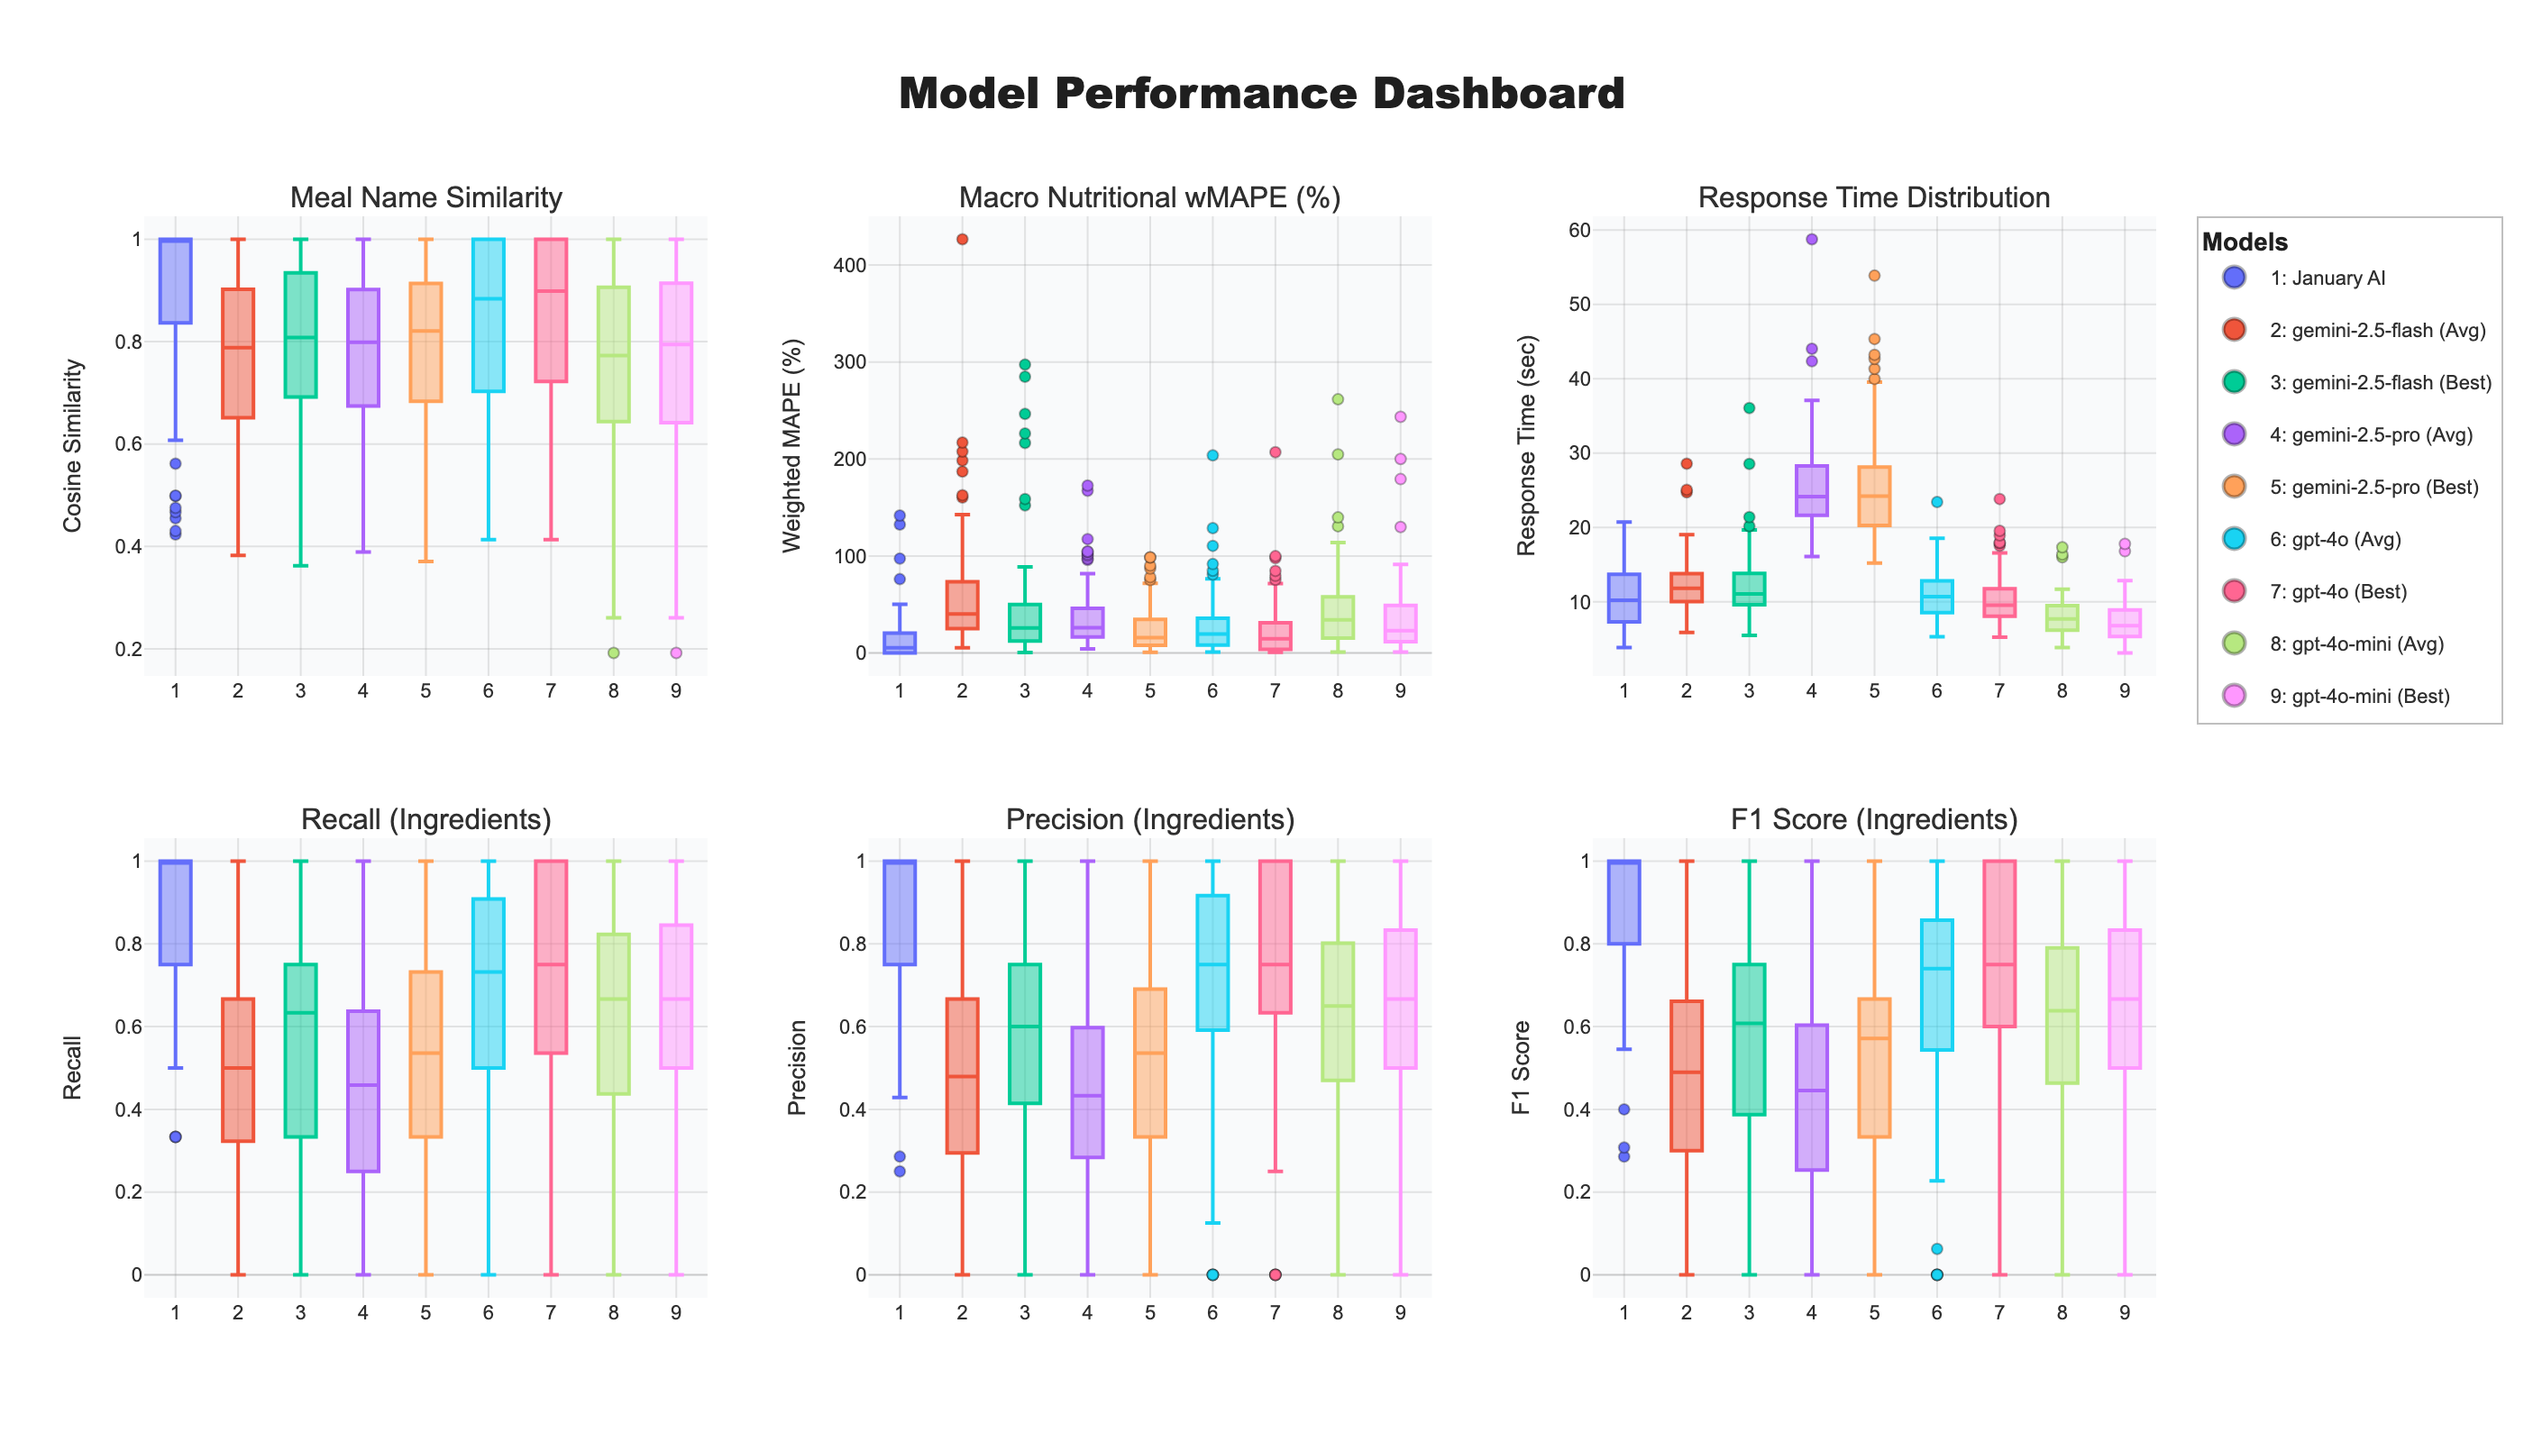
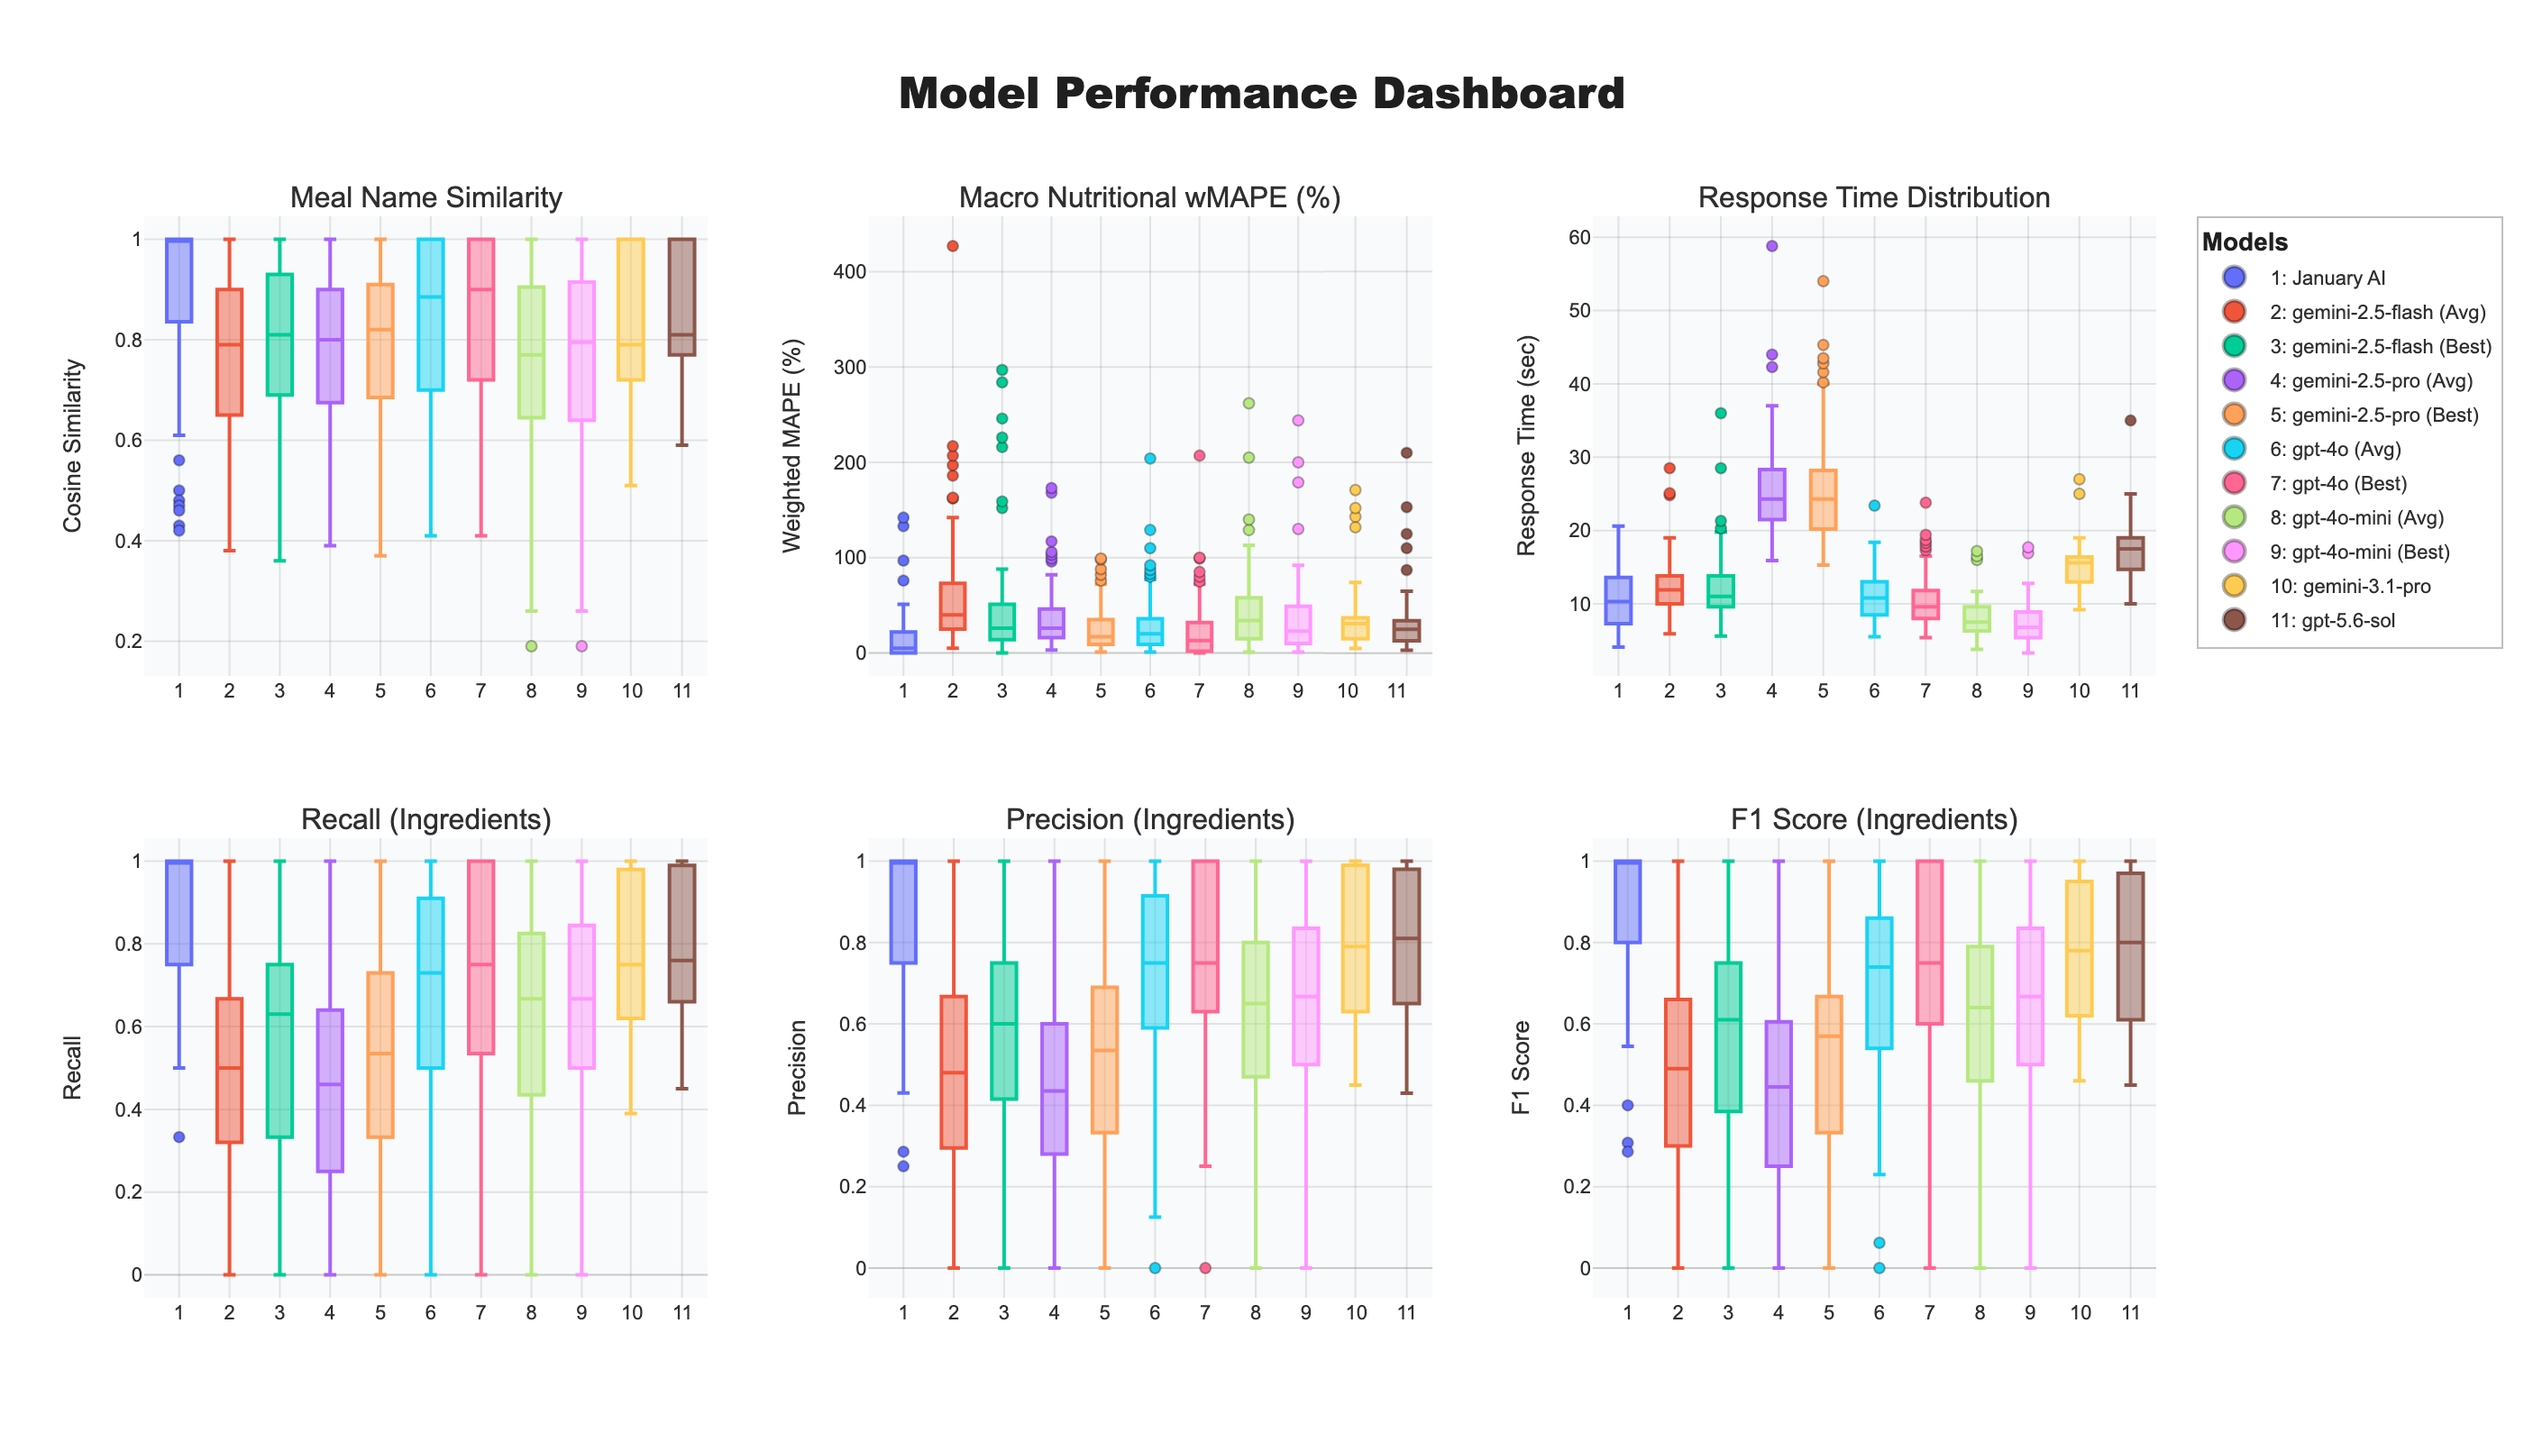
feat: add gpt-5.6-sol and gemini-3.1-pro to the benchmark
- support gpt-5.6-sol and gemini-3.1-pro in the LiteLLM wrapper and CLI
- add their results to the README leaderboard and charts

diff --git a/food_scan_bench/models/llm.py b/food_scan_bench/models/llm.py
@@ -9,6 +9,8 @@ from ..prompts import PROMPT_VARIANTS
 from ..schema import FoodAnalysis
 from ..utils import calculate_cost, img2b64
 
+DEFAULT_TEMPERATURE_ONLY_PREFIXES = ("gpt-5", "o1", "o3", "o4", "gemini/gemini-3")
+
 
 class LiteModel:
     """A robust wrapper around any LiteLLM-supported vision model with prompt engineering options."""
@@ -58,13 +60,16 @@ class LiteModel:
             },
         ]
 
+        sampling_kwargs = {}
+        if not self.model_name.startswith(DEFAULT_TEMPERATURE_ONLY_PREFIXES):
+            sampling_kwargs["temperature"] = 0.0
+
         try:
             resp = await litellm.acompletion(
                 model=self.model_name,
                 messages=messages,
                 response_format=FoodAnalysis,
-                temperature=0.0,
-                **self.kwargs,
+                **{**sampling_kwargs, **self.kwargs},
             )
             raw = ""
             try:

diff --git a/food_scan_bench/utils.py b/food_scan_bench/utils.py
@@ -34,6 +34,16 @@ MODEL_COSTS = {
         "output": 10.00,
         "display_name": "gemini-2.5-pro",
     },
+    "gpt-5.6-sol": {
+        "input": 4.00,
+        "output": 20.00,
+        "display_name": "gpt-5.6-sol",
+    },
+    "gemini/gemini-3.1-pro-preview": {
+        "input": 2.00,
+        "output": 12.00,
+        "display_name": "gemini-3.1-pro",
+    },
 }
 
 

diff --git a/food_scan_bench/run_benchmark.py b/food_scan_bench/run_benchmark.py
@@ -16,6 +16,8 @@ DEFAULT_CONFIG = {
         "gpt-4o",
         "gemini/gemini-2.5-flash-preview-05-20",
         "gemini/gemini-2.5-pro-preview-06-05",
+        "gpt-5.6-sol",
+        "gemini/gemini-3.1-pro-preview",
     ],
     "max_items": 20,
     "cache_dir": Path(".cache/food_scan_bench"),

diff --git a/README.md b/README.md
@@ -35,12 +35,12 @@ The Overall Score is a composite metric (0-100) that unifies all performance ben
 | Rank | Model               | Overall Score |
 | ---- | ------------------- | ------------- |
 | 1 🥇 | `january-ai-vision` | 86.24         |
-| 2 🥈 | `gpt-4o`            | 74.11         |
-| 3 🥉 | `gpt-4o-mini`       | 66.44         |
-| 4    | `gemini-2.5-pro`    | 60.67         |
-| 5    | `gemini-2.5-flash`  | 60.65         |
-
-**Last updated: June 2025**
+| 2 🥈 | `gpt-5.6-sol`       | 78.64         |
+| 3 🥉 | `gemini-3.1-pro`    | 77.96         |
+| 4    | `gpt-4o`            | 74.11         |
+| 5    | `gpt-4o-mini`       | 66.44         |
+| 6    | `gemini-2.5-pro`    | 60.67         |
+| 7    | `gemini-2.5-flash`  | 60.65         |
 
 The dashboard below shows a detailed breakdown of each model's performance distribution across core metrics.
 
@@ -110,9 +110,10 @@ python -m food_scan_bench.run_benchmark \
 | Provider   | Identifier                                        |
 | ---------- | ------------------------------------------------- |
 | January AI | `january/food-vision-v1`                          |
-| OpenAI     | `gpt-4o`, `gpt-4o-mini`                           |
+| OpenAI     | `gpt-4o`, `gpt-4o-mini`, `gpt-5.6-sol`            |
 | Google     | `gemini/gemini-2.5-flash-preview-05-20`           |
 |            | `gemini/gemini-2.5-pro-preview-06-05`             |
+|            | `gemini/gemini-3.1-pro-preview`                   |
 | Other      | Any LiteLLM-compatible model that supports images |
 
 Add your own model in a few lines—see below.
